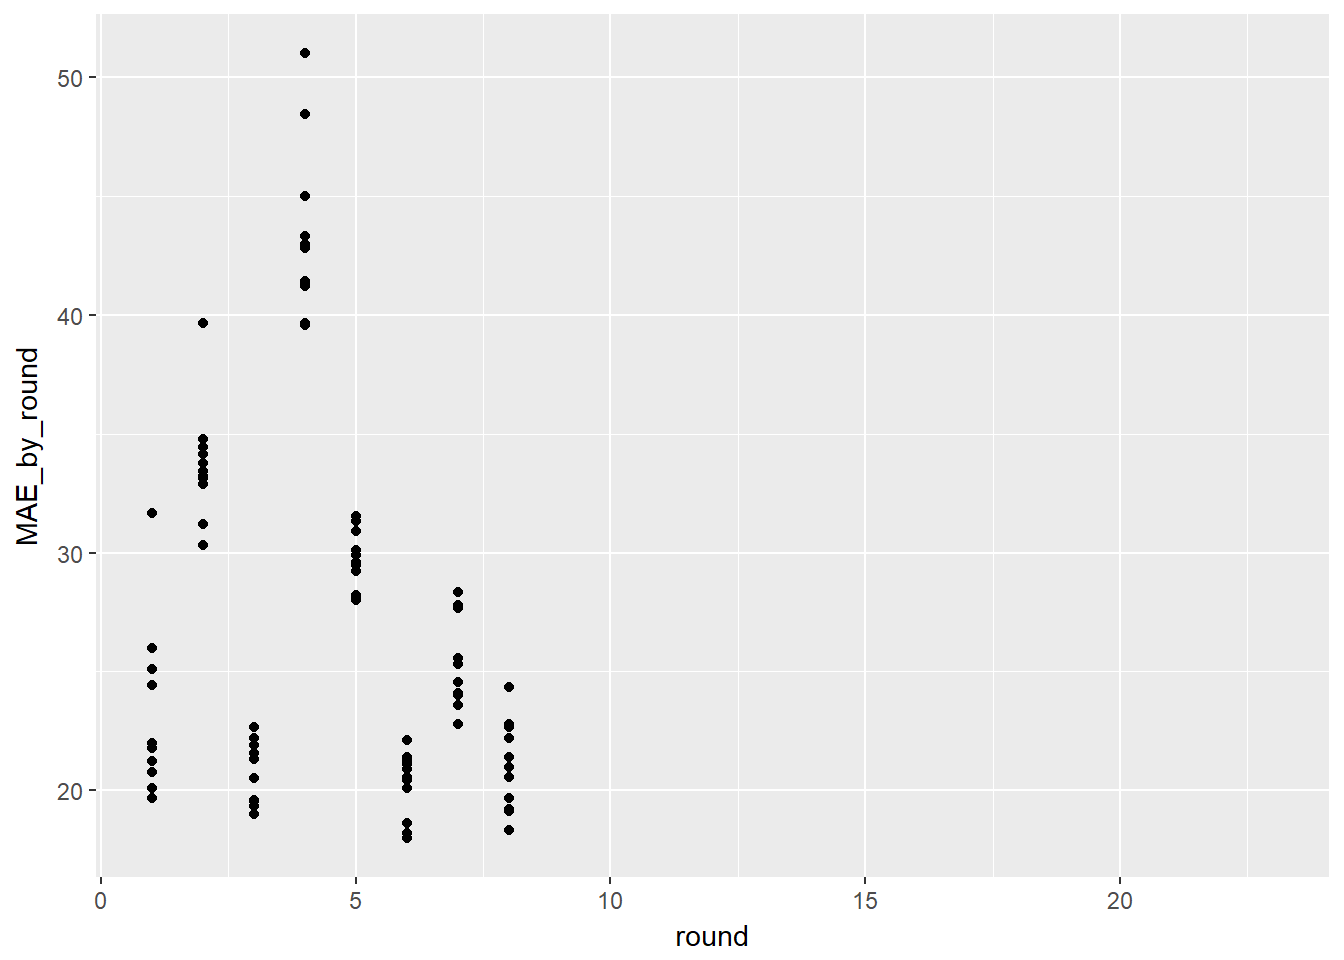
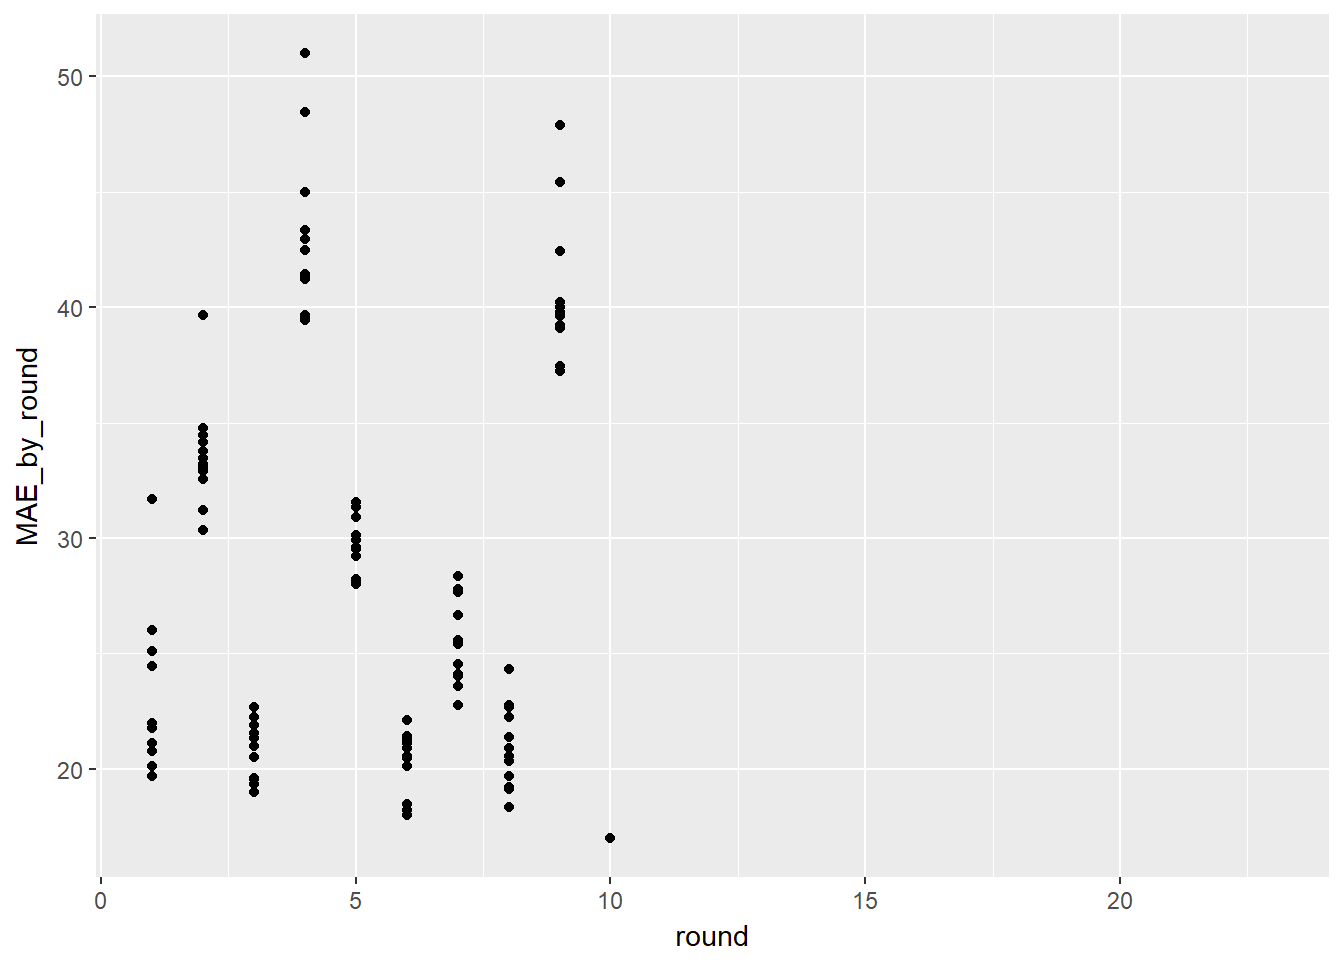
push
push

diff --git a/content/fitzRoy/2018-05-04-make-your-own-afl-graphs.html b/content/fitzRoy/2018-05-04-make-your-own-afl-graphs.html
@@ -25,12 +25,12 @@ install.packages(&quot;devtools&quot;)
 devtools::install_github(&quot;jimmyday12/fitzRoy&quot;)
 library(fitzRoy)
 library(tidyverse)</code></pre>
-<pre><code>## -- Attaching packages ------------------------------------- tidyverse 1.2.1 --</code></pre>
+<pre><code>## -- Attaching packages --------------------------------------------------------------- tidyverse 1.2.1 --</code></pre>
 <pre><code>## v ggplot2 2.2.1     v purrr   0.2.4
 ## v tibble  1.4.2     v dplyr   0.7.4
 ## v tidyr   0.8.0     v stringr 1.3.0
 ## v readr   1.1.1     v forcats 0.3.0</code></pre>
-<pre><code>## -- Conflicts ---------------------------------------- tidyverse_conflicts() --
+<pre><code>## -- Conflicts ------------------------------------------------------------------ tidyverse_conflicts() --
 ## x dplyr::filter() masks stats::filter()
 ## x dplyr::lag()    masks stats::lag()</code></pre>
 <pre class="r"><code>df&lt;-fitzRoy::afldata
@@ -106,34 +106,34 @@ ggplot(aes(x=Weight, y=Contested.Marks)) +
 tips &lt;- get_squiggle_data(&quot;tips&quot;)</code></pre>
 <pre><code>## Getting data from https://api.squiggle.com.au/?q=tips</code></pre>
 <pre class="r"><code>head(tips) </code></pre>
-<pre><code>##   gameid hconfidence          source ateamid margin year       hteam round
-## 1      1        50.0        Squiggle      14   1.00 2017     Carlton     1
-## 2      1        42.0  Figuring Footy      14     NA 2017     Carlton     1
-## 3      1        56.7 Matter of Stats      14   5.39 2017     Carlton     1
-## 4      2        37.3 Matter of Stats      18  10.31 2017 Collingwood     1
-## 5      2        38.0        Squiggle      18  17.00 2017 Collingwood     1
-## 6      8        50.0        Squiggle       9   3.00 2017    Adelaide     1
-##   tipteamid              tip    bits hteamid   err                date
-## 1        14         Richmond  0.0000       3 42.00 2017-03-23 19:20:00
-## 2        14         Richmond  0.2141       3    NA 2017-03-23 19:20:00
-## 3         3          Carlton -0.2076       3 48.39 2017-03-23 19:20:00
-## 4        18 Western Bulldogs  0.3265       4  3.69 2017-03-24 19:50:00
-## 5        18 Western Bulldogs  0.3103       4  3.00 2017-03-24 19:50:00
-## 6         1         Adelaide  0.0000       1 53.00 2017-03-26 15:20:00
-##                    ateam         venue             updated correct
-## 1               Richmond        M.C.G. 2017-07-11 13:59:46       1
-## 2               Richmond        M.C.G. 2017-04-10 12:18:02       1
-## 3               Richmond        M.C.G. 2017-07-11 13:59:46       0
-## 4       Western Bulldogs        M.C.G. 2017-07-11 13:59:46       1
-## 5       Western Bulldogs        M.C.G. 2017-07-11 13:59:46       1
-## 6 Greater Western Sydney Adelaide Oval 2017-07-11 13:59:46       1
-##   sourceid confidence
-## 1        1       50.0
-## 2        3       58.0
-## 3        4       56.7
-## 4        4       62.7
-## 5        1       62.0
-## 6        1       50.0</code></pre>
+<pre><code>##           venue              tip gameid                date margin correct
+## 1        M.C.G.         Richmond      1 2017-03-23 19:20:00   1.00       1
+## 2        M.C.G.         Richmond      1 2017-03-23 19:20:00     NA       1
+## 3        M.C.G.          Carlton      1 2017-03-23 19:20:00   5.39       0
+## 4        M.C.G. Western Bulldogs      2 2017-03-24 19:50:00  10.31       1
+## 5        M.C.G. Western Bulldogs      2 2017-03-24 19:50:00  17.00       1
+## 6 Adelaide Oval         Adelaide      8 2017-03-26 15:20:00   3.00       1
+##   year round hconfidence       hteam confidence    bits
+## 1 2017     1        50.0     Carlton       50.0  0.0000
+## 2 2017     1        42.0     Carlton       58.0  0.2141
+## 3 2017     1        56.7     Carlton       56.7 -0.2076
+## 4 2017     1        37.3 Collingwood       62.7  0.3265
+## 5 2017     1        38.0 Collingwood       62.0  0.3103
+## 6 2017     1        50.0    Adelaide       50.0  0.0000
+##                    ateam             updated   err          source
+## 1               Richmond 2017-07-11 13:59:46 42.00        Squiggle
+## 2               Richmond 2017-04-10 12:18:02    NA  Figuring Footy
+## 3               Richmond 2017-07-11 13:59:46 48.39 Matter of Stats
+## 4       Western Bulldogs 2017-07-11 13:59:46  3.69 Matter of Stats
+## 5       Western Bulldogs 2017-07-11 13:59:46  3.00        Squiggle
+## 6 Greater Western Sydney 2017-07-11 13:59:46 53.00        Squiggle
+##   tipteamid hteamid sourceid ateamid
+## 1        14       3        1      14
+## 2        14       3        3      14
+## 3         3       3        4      14
+## 4        18       4        4      18
+## 5        18       4        1      18
+## 6         1       1        1       9</code></pre>
 <div id="getting-data-in-the-right-format" class="section level2">
 <h2>Getting data in the right format</h2>
 <p>What do I actually want to visualise here?</p>
@@ -142,21 +142,21 @@ tips &lt;- get_squiggle_data(&quot;tips&quot;)</code></pre>
   filter(year&gt;2017)%&gt;%
    group_by(round, source)%&gt;%
    summarise(MAE_by_round=mean(err))</code></pre>
-<pre><code>## # A tibble: 191 x 3
+<pre><code>## # A tibble: 210 x 3
 ## # Groups:   round [?]
 ##    round source                MAE_by_round
 ##    &lt;int&gt; &lt;chr&gt;                        &lt;dbl&gt;
-##  1     1 Aggregate                     21.2
+##  1     1 Aggregate                     21.1
 ##  2     1 Footy Maths Institute         26  
 ##  3     1 Graft                         20.1
 ##  4     1 HPN                           31.7
 ##  5     1 Live Ladders                  20.8
-##  6     1 Matter of Stats               24.4
-##  7     1 PlusSixOne                    19.7
-##  8     1 Punters                       NA  
-##  9     1 Squiggle                      22  
-## 10     1 Stattraction                  21.8
-## # ... with 181 more rows</code></pre>
+##  6     1 Massey Ratings                21.1
+##  7     1 Matter of Stats               24.4
+##  8     1 PlusSixOne                    19.7
+##  9     1 Punters                       NA  
+## 10     1 Squiggle                      22  
+## # ... with 200 more rows</code></pre>
 <p>Now that we have our data in the right format for plotting lets you know get plotting!</p>
 <pre class="r"><code>tips%&gt;%
   filter(year&gt;2017)%&gt;%
@@ -164,7 +164,7 @@ tips &lt;- get_squiggle_data(&quot;tips&quot;)</code></pre>
    summarise(MAE_by_round=mean(err))%&gt;%
   ggplot(aes(x=round, y=MAE_by_round))+ 
   geom_point()</code></pre>
-<pre><code>## Warning: Removed 103 rows containing missing values (geom_point).</code></pre>
+<pre><code>## Warning: Removed 101 rows containing missing values (geom_point).</code></pre>
 <p><img src="/fitzRoy/2018-05-04-make-your-own-afl-graphs_files/figure-html/unnamed-chunk-8-1.png" width="672" /></p>
 <p>So what can we see here? We can see the average MAE by tipster by round for 2018. The problem is we can’t identify which tipster is who. So how can we do that? Just add colour.</p>
 <pre class="r"><code>tips%&gt;%
@@ -173,7 +173,7 @@ tips &lt;- get_squiggle_data(&quot;tips&quot;)</code></pre>
    summarise(MAE_by_round=mean(err))%&gt;%
   ggplot(aes(x=round, y=MAE_by_round))+ 
   geom_point(aes(colour=source))</code></pre>
-<pre><code>## Warning: Removed 103 rows containing missing values (geom_point).</code></pre>
+<pre><code>## Warning: Removed 101 rows containing missing values (geom_point).</code></pre>
 <p><img src="/fitzRoy/2018-05-04-make-your-own-afl-graphs_files/figure-html/unnamed-chunk-9-1.png" width="672" /></p>
 <p>Ok now that we have added some colour things are still hard to see, so what if we joined each point for the respective tipster?</p>
 <pre class="r"><code>tips%&gt;%
@@ -183,8 +183,8 @@ tips &lt;- get_squiggle_data(&quot;tips&quot;)</code></pre>
   ggplot(aes(x=round, y=MAE_by_round))+ 
   geom_point(aes(colour=source)) +
   geom_line(aes(group=source, colour=source))</code></pre>
-<pre><code>## Warning: Removed 103 rows containing missing values (geom_point).</code></pre>
-<pre><code>## Warning: Removed 92 rows containing missing values (geom_path).</code></pre>
+<pre><code>## Warning: Removed 101 rows containing missing values (geom_point).</code></pre>
+<pre><code>## Warning: Removed 89 rows containing missing values (geom_path).</code></pre>
 <p><img src="/fitzRoy/2018-05-04-make-your-own-afl-graphs_files/figure-html/unnamed-chunk-10-1.png" width="672" /></p>
 <p>Ok so now things are a bit clearer but still not as clear as we would like. Its hard to get a feel for each individual tipster because all the points are fairly close which makes our lines close together so disentanglement becomes difficult. This is where faceting or small multiples comes in handy.</p>
 <pre class="r"><code>tips%&gt;%
@@ -194,8 +194,8 @@ tips &lt;- get_squiggle_data(&quot;tips&quot;)</code></pre>
   ggplot(aes(x=round, y=MAE_by_round))+ 
   geom_point(aes(colour=source)) +
   geom_line(aes(group=source, colour=source)) +facet_wrap(~source)</code></pre>
-<pre><code>## Warning: Removed 103 rows containing missing values (geom_point).</code></pre>
-<pre><code>## Warning: Removed 92 rows containing missing values (geom_path).</code></pre>
+<pre><code>## Warning: Removed 101 rows containing missing values (geom_point).</code></pre>
+<pre><code>## Warning: Removed 89 rows containing missing values (geom_path).</code></pre>
 <p><img src="/fitzRoy/2018-05-04-make-your-own-afl-graphs_files/figure-html/unnamed-chunk-11-1.png" width="672" /></p>
 <p>There you go how cool is that.</p>
 </div>
